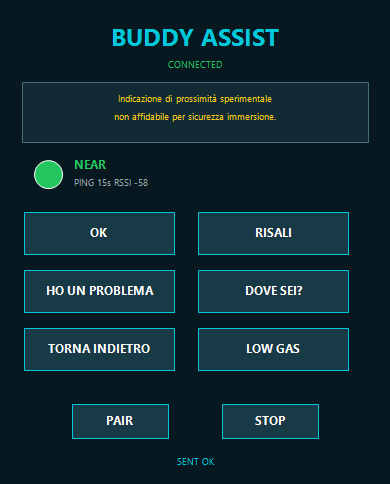
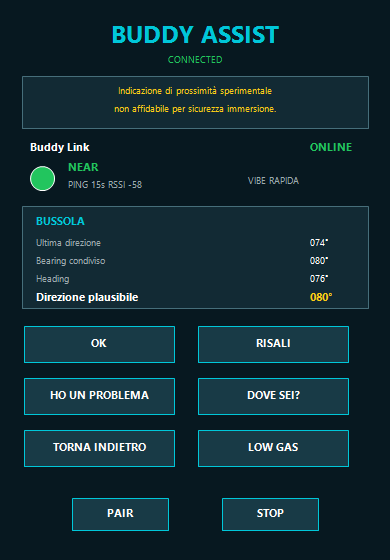
Add buddy link compass and haptics

diff --git a/Views/BuddyAssistView.swift b/Views/BuddyAssistView.swift
@@ -2,6 +2,7 @@ import SwiftUI
 
 struct BuddyAssistView: View {
     @EnvironmentObject private var buddyAssist: BuddyAssistService
+    @EnvironmentObject private var compass: CompassManager
 
     private let columns = [
         GridItem(.flexible(), spacing: 6),
@@ -13,7 +14,9 @@ struct BuddyAssistView: View {
             VStack(spacing: 8) {
                 header
                 warning
+                buddyLink
                 proximity
+                compassBlock
 
                 LazyVGrid(columns: columns, spacing: 6) {
                     ForEach(BuddyAssistMessage.allCases) { message in
@@ -48,6 +51,19 @@ struct BuddyAssistView: View {
             .padding(8)
         }
         .navigationTitle("BUDDY")
+        .onAppear {
+            compass.start()
+            buddyAssist.updateCompassContext(headingDegrees: compass.headingDegrees, bearingDegrees: compass.bearingDegrees)
+        }
+        .onDisappear {
+            compass.stop()
+        }
+        .onReceive(compass.$headingDegrees) { heading in
+            buddyAssist.updateCompassContext(headingDegrees: heading, bearingDegrees: compass.bearingDegrees)
+        }
+        .onReceive(compass.$bearingDegrees) { bearing in
+            buddyAssist.updateCompassContext(headingDegrees: compass.headingDegrees, bearingDegrees: bearing)
+        }
     }
 
     private var header: some View {
@@ -69,6 +85,18 @@ struct BuddyAssistView: View {
             .fixedSize(horizontal: false, vertical: true)
     }
 
+    private var buddyLink: some View {
+        HStack {
+            Text("Buddy Link")
+                .font(.caption.bold())
+                .foregroundStyle(.white)
+            Spacer()
+            Text(buddyAssist.buddyLinkStatus)
+                .font(.caption.monospacedDigit().bold())
+                .foregroundStyle(buddyAssist.isBuddyOnline ? .green : .red)
+        }
+    }
+
     private var proximity: some View {
         HStack(spacing: 8) {
             Circle()
@@ -88,6 +116,37 @@ struct BuddyAssistView: View {
         .padding(.vertical, 4)
     }
 
+    private var compassBlock: some View {
+        VStack(alignment: .leading, spacing: 4) {
+            Text("BUSSOLA")
+                .font(.caption.bold())
+                .foregroundStyle(.cyan)
+            compassRow("Ultima direzione", degrees: buddyAssist.lastKnownDirectionDegrees)
+            compassRow("Bearing condiviso", degrees: buddyAssist.sharedBearingDegrees)
+            compassRow("Heading", degrees: compass.headingDegrees)
+            HStack {
+                Text("Direzione plausibile")
+                Spacer()
+                Text(directionText(buddyAssist.plausibleDirectionDegrees))
+                    .foregroundStyle(.yellow)
+                    .monospacedDigit()
+            }
+            .font(.caption2.bold())
+        }
+        .padding(.vertical, 4)
+    }
+
+    private func compassRow(_ title: String, degrees: Double?) -> some View {
+        HStack {
+            Text(title)
+            Spacer()
+            Text(directionText(degrees))
+                .monospacedDigit()
+        }
+        .font(.caption2)
+        .foregroundStyle(.secondary)
+    }
+
     private var proximityColor: Color {
         switch buddyAssist.proximityState {
         case .near: return .green
@@ -101,5 +160,10 @@ struct BuddyAssistView: View {
             return "PING 15s RSSI \(lastRSSI)"
         }
         return "PING 15s --"
+    }
+
+    private func directionText(_ degrees: Double?) -> String {
+        guard let degrees else { return "--" }
+        return "\(Int(degrees.rounded()))°"
     }
 }

diff --git a/Services/HapticService.swift b/Services/HapticService.swift
@@ -5,6 +5,8 @@ import WatchKit
 final class HapticService {
     static let shared = HapticService()
     private var lastWarningDate: Date?
+    private var lastBuddyNearDate: Date?
+    private var lastBuddyDistantDate: Date?
     private init() {}
 
     func warnIfNeeded() {
@@ -12,5 +14,23 @@ final class HapticService {
         if let lastWarningDate, now.timeIntervalSince(lastWarningDate) < 2 { return }
         lastWarningDate = now
         WKInterfaceDevice.current().play(.failure)
+    }
+
+    func buddyNearPulseIfNeeded() {
+        let now = Date()
+        if let lastBuddyNearDate, now.timeIntervalSince(lastBuddyNearDate) < 1 { return }
+        lastBuddyNearDate = now
+        WKInterfaceDevice.current().play(.click)
+        Task { @MainActor in
+            try? await Task.sleep(nanoseconds: 250_000_000)
+            WKInterfaceDevice.current().play(.click)
+        }
+    }
+
+    func buddyDistantPulseIfNeeded() {
+        let now = Date()
+        if let lastBuddyDistantDate, now.timeIntervalSince(lastBuddyDistantDate) < 5 { return }
+        lastBuddyDistantDate = now
+        WKInterfaceDevice.current().play(.directionDown)
     }
 }

diff --git a/Services/BuddyAssistService.swift b/Services/BuddyAssistService.swift
@@ -25,6 +25,9 @@ final class BuddyAssistService: NSObject, ObservableObject {
     @Published private(set) var proximityState: ProximityState = .disconnected
     @Published private(set) var lastRSSI: Int?
     @Published private(set) var lastPingDate: Date?
+    @Published private(set) var lastKnownDirectionDegrees: Double?
+    @Published private(set) var sharedBearingDegrees: Double?
+    @Published private(set) var plausibleDirectionDegrees: Double?
     @Published private(set) var lastErrorMessage: String?
     @Published private(set) var events: [BuddyAssistEvent] = []
 
@@ -34,6 +37,8 @@ final class BuddyAssistService: NSObject, ObservableObject {
     private var pingTimer: Timer?
 
     var canSend: Bool { state == .connected && messageCharacteristic != nil }
+    var isBuddyOnline: Bool { state == .connected }
+    var buddyLinkStatus: String { isBuddyOnline ? "ONLINE" : "LOST" }
 
     var limitationText: String {
         "Direct Watch-to-Watch BLE pairing is experimental. watchOS apps cannot advertise BLE peripheral services, so a reliable production path may need a companion device or external BLE relay."
@@ -75,6 +80,14 @@ final class BuddyAssistService: NSObject, ObservableObject {
 
         connectedPeripheral.writeValue(data, for: messageCharacteristic, type: .withResponse)
         append(message, direction: .sent)
+    }
+
+    func updateCompassContext(headingDegrees: Double, bearingDegrees: Double?) {
+        lastKnownDirectionDegrees = headingDegrees
+        if let bearingDegrees {
+            sharedBearingDegrees = bearingDegrees
+        }
+        plausibleDirectionDegrees = sharedBearingDegrees ?? lastKnownDirectionDegrees
     }
 
     private func startScanningIfReady(_ centralManager: CBCentralManager) {
@@ -129,10 +142,10 @@ final class BuddyAssistService: NSObject, ObservableObject {
         lastRSSI = rssi
         if rssi >= -70 {
             proximityState = .near
-        } else if rssi >= -90 {
-            proximityState = .distant
+            HapticService.shared.buddyNearPulseIfNeeded()
         } else {
-            proximityState = .disconnected
+            proximityState = .distant
+            HapticService.shared.buddyDistantPulseIfNeeded()
         }
     }
 }

diff --git a/README.md b/README.md
@@ -216,6 +216,11 @@ Current implementation status:
   - green when RSSI suggests the buddy is near;
   - yellow when RSSI suggests the buddy is around the distant / mid-range zone;
   - red when no buddy link is available.
+- Adds Buddy Link status with `ONLINE` / `LOST`.
+- Adds haptic patterns for proximity changes:
+  - slow pulse when the buddy is distant;
+  - rapid double pulse when the buddy is near.
+- Adds a compass block with last known direction, shared bearing, current heading, and an estimated `Direzione plausibile`.
 - Reads buddy RSSI every 15 seconds while connected.
 - Adds a `BuddyAssistService` with CoreBluetooth central-side scaffolding.
 - Defines a custom BLE service UUID and message characteristic UUID.